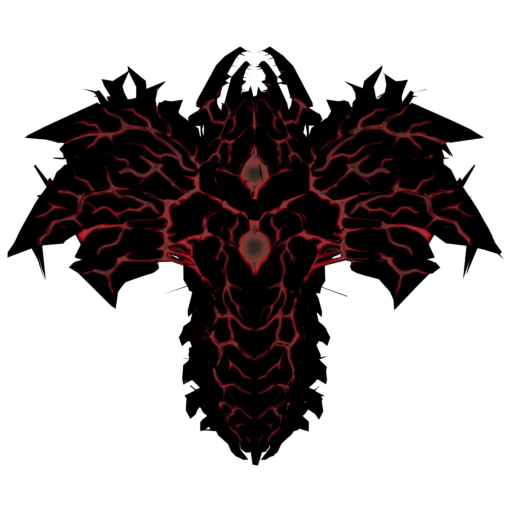
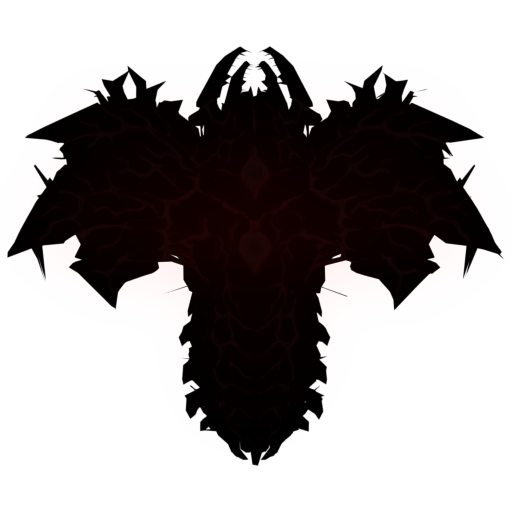
El horneado lleva el halo de alta, para que media sea la misma imagen
En calidad alta el brillo del rojo lo hace el Environment del SubViewport con
glow: lo que pasa de 1 se DERRAMA a los pixeles vecinos. En media no hay entorno,
hay un PNG. Sin halo horneado el resultado no era mas oscuro, era de otro
CARACTER: mismo brillo medio, pero media con manchones planos reventados y alta
con el rojo vivo y halo. Se homologa el acabado, que era lo que quedaba distinto.

Medido, rojo medio del pixel y % por encima de 0,8, recortando a 1 en los dos
lados porque es lo que la pantalla da:

  media antes            0.370   19,1%
  media con halo         0.373   10,1%
  alta con glow (ref.)   0.377    8,7%

El 1,4% que queda es diferencia de ENCUADRE entre las dos imagenes —98 687 px de
silueta contra 79 200— y no de acabado. Afinar mas seria perseguir el ruido de la
propia medicion.

Se hace con numpy sobre el PNG ya rendido, no con el compositor. En Blender 5 el
compositor es un grupo de nodos colgado de la escena y los ajustes del Glare son
entradas, no propiedades; se perdio un buen rato ahi y ademas no se podia razonar
sobre el resultado. Tres cajas seguidas por sumas acumuladas dan la gaussiana en
O(n) y sin scipy.

Tres cosas que costaron una pasada cada una:

  · El halo sale de la emision ORIGINAL y el nucleo se atenua DESPUES. Al reves,
    bajar el nucleo dejaba la imagen por debajo del umbral y el halo desaparecia
    —medido: 12,9% de reventon y cero halo fuera de la silueta.
[…]

Changed region(s): [[0.0625, 0.1875, 0.9375, 0.8438], [0.5, 0.8438, 0.5312, 0.875]]

diff --git a/tools/hornear-sprite.py b/tools/hornear-sprite.py
@@ -41,6 +41,13 @@ argv = sys.argv[sys.argv.index("--") + 1:]
 entrada, salida_dir, nombre = argv[0], argv[1], argv[2]
 LADO = int(argv[3]) if len(argv) > 3 else 512
 
+# ABSOLUTA, siempre. Blender resuelve un `render.filepath` RELATIVO contra su
+# propia idea de la ruta base, no contra el directorio desde el que se lanza: con
+# `exports/horno` como salida el render se fue a un sitio fantasma, el script
+# dijo que habia horneado y los PNG del repo se quedaron como estaban. No dio
+# ningun error; solo no hizo nada.
+salida_dir = os.path.abspath(salida_dir)
+
 sys.path.insert(0, os.path.dirname(os.path.abspath(__file__)))
 from salvaguarda import comprobar_salida    # noqa: E402
 comprobar_salida(entrada, os.path.join(salida_dir, nombre + "-base.png"))
@@ -128,7 +135,88 @@ previos = emisiones(0.0)
 print("BASE (emision apagada para que no vaya dos veces)")
 render(os.path.join(salida_dir, nombre + "-base.png"))
 
-# ---- 2. EMISIVA: solo lo que brilla ----
+# ---- glow para el pase emisivo ----
+# Homologa media con alta. En ALTA el brillo lo hace el `Environment` del
+# SubViewport con `glow_enabled`, que DERRAMA lo que pasa de 1 a los pixeles
+# vecinos. En MEDIA no hay entorno: hay un PNG. Si el halo no se hornea, media se
+# queda con el nucleo recortado —manchones planos reventados— y alta con el rojo
+# vivo y halo. Misma luminosidad media, distinto acabado; esto iguala el acabado.
+#
+# Los tres diales espejan los del cliente (entity_node._construir_malla_3d):
+#   umbral 0.9  <- glow_hdr_threshold      fuerza 1.0 <- glow_intensity
+#   tamanio     <- no tiene equivalente exacto; se calibro midiendo (ver README)
+GLOW_UMBRAL = float(os.environ.get("GLOW_UMBRAL", 0.25))
+GLOW_RADIO = float(os.environ.get("GLOW_RADIO", 0.06))   # fraccion del lado
+GLOW_FUERZA = float(os.environ.get("GLOW_FUERZA", 1.8))
+# El nucleo del horneado sale mas caliente que la emision de ALTA en Godot: al
+# mismo pulso, media reventaba el 19,1% de sus pixeles y alta el 8,3%. Homologar
+# el acabado es bajar el nucleo A LO QUE DA ALTA y devolver esa energia como halo,
+# que es justo lo que hace un bloom: no quema mas, reparte.
+GLOW_NUCLEO = float(os.environ.get("GLOW_NUCLEO", 0.09))
+
+
+def _desenfoque(a, radio):
+    """Gauss aproximado por tres cajas seguidas, con sumas acumuladas.
+
+    Tres pasadas de caja convergen a una gaussiana y cuestan O(n) en vez de
+    O(n*radio); con 512 px y numpy es instantaneo y no hace falta scipy.
+    """
+    r = max(1, int(radio))
+    for _ in range(3):
+        for eje in (0, 1):
+            a = np.swapaxes(a, 0, eje)
+            pad = np.concatenate([
+                np.repeat(a[:1], r + 1, axis=0), a, np.repeat(a[-1:], r, axis=0)], axis=0)
+            ac = np.cumsum(pad, axis=0)
+            a = (ac[2 * r + 1:] - ac[:-(2 * r + 1)]) / float(2 * r + 1)
+            a = np.swapaxes(a, 0, eje)
+    return a
+
+
+def hornear_halo(ruta):
+    """Anade a la capa emisiva el halo que en ALTA pone el glow del Environment.
+
+    Homologa el ACABADO, que es lo que quedaba distinto. Con la misma luminosidad
+    media, media tenia manchones planos reventados (19,1% de pixeles a tope) y
+    alta el rojo vivo con halo (8,7%). El brillo ya casaba; el caracter no.
+
+    Se trabaja sobre el color PREMULTIPLICADO porque es lo que se ve: el cliente
+    monta esta capa en blend ADITIVO, donde la aportacion es rgb*a. Sumar el halo
+    ahi y recomponer el alfa despues es lo unico que lo deja bien; hacerlo sobre
+    el rgb suelto pinta halo donde el alfa lo iba a borrar.
+    """
+    img = bpy.data.images.load(ruta)
+    w, h = img.size
+    px = np.array(img.pixels[:], dtype=np.float32).reshape(h, w, 4)
+    rgb, alfa = px[:, :, :3], px[:, :, 3:4]
+
+    visible = rgb * alfa
+    # El halo sale de la emision ORIGINAL y el nucleo se atenua DESPUES. Al reves
+    # —que fue el primer intento— bajar el nucleo dejaba la imagen por debajo del
+    # umbral y el halo desaparecia: se medio 12,9% de reventon y ni un pixel de
+    # halo fuera de la silueta. Ademas es lo fisico: en ALTA el bloom lee la
+    # emision entera, y bajar el nucleo es repartir esa energia, no quitarla.
+    altas = np.maximum(visible - GLOW_UMBRAL, 0.0)
+    halo = _desenfoque(altas, GLOW_RADIO * min(w, h)) * GLOW_FUERZA
+    nueva = visible * GLOW_NUCLEO + halo
+
+    # El alfa tiene que crecer con el halo: cae FUERA de la silueta, donde el
+    # render trae alfa 0, y el blend aditivo multiplica por alfa. Sin esto el halo
+    # se multiplicaria por cero y no existiria.
+    luz = nueva.max(axis=2, keepdims=True)
+    na = np.clip(np.maximum(alfa, luz), 0.0, 1.0)
+    px[:, :, :3] = np.where(na > 1e-4, nueva / np.maximum(na, 1e-4), 0.0)
+    px[:, :, 3:4] = na
+
+    img.pixels = np.clip(px, 0.0, 1.0).ravel().tolist()
+    img.filepath_raw = ruta
+    img.file_format = "PNG"
+    img.save()
+    print("  halo: nucleo %.2f umbral %.2f radio %.3f fuerza %.2f -> alfa %.1f%%"
+          % (GLOW_NUCLEO, GLOW_UMBRAL, GLOW_RADIO, GLOW_FUERZA, 100.0 * (na > 0.02).mean()))
+
+
+# ---- 2. EMISIVA: solo lo que brilla, CON el halo de alta ----
 for m in bpy.data.materials:
     if m.use_nodes:
         b = next((n for n in m.node_tree.nodes if n.type == "BSDF_PRINCIPLED"), None)
@@ -137,7 +225,11 @@ for m in bpy.data.materials:
 sol_d.energy = 0.0
 fondo.inputs[1].default_value = 0.0
 print("EMISIVA (sin luces, mundo negro)")
-render(os.path.join(salida_dir, nombre + "-emissive.png"))
+_emi = os.path.join(salida_dir, nombre + "-emissive.png")
+render(_emi)
+# El halo va SOLO aqui. En el pase de normales seria corrupcion, no brillo, y en
+# el base iria dos veces: el cliente ya suma esta capa encima.
+hornear_halo(_emi)
 
 # ---- 3. NORMAL en espacio de pantalla ----
 # Se sustituye el material por una emision que pinta la normal como color, en vez

diff --git a/README.md b/README.md
@@ -469,3 +469,48 @@ construcción.
 ## Estado
 
 Repo recién creado.
+
+
+### El halo horneado: por qué media lleva glow dentro del PNG
+
+En calidad **alta** el brillo del rojo lo hace el `Environment` del `SubViewport`
+con `glow_enabled`: lo que pasa de 1 se **derrama** a los píxeles vecinos. En
+**media** no hay entorno, hay un PNG — y sin halo horneado el resultado no era
+más oscuro, era **de otro carácter**: mismo brillo medio, pero media con
+manchones planos reventados y alta con el rojo vivo y halo.
+
+Medido sobre el mismo bicho (rojo medio del píxel y % de píxeles por encima de
+0,8, recortando a 1 en los dos lados porque es lo que la pantalla da):
+
+| | rojo medio | reventados |
+|---|---|---|
+| media, antes | 0,370 | 19,1 % |
+| **media, con halo horneado** | **0,373** | **10,1 %** |
+| alta con glow (la referencia) | 0,377 | 8,7 % |
+
+El 1,4 % que queda es diferencia de **encuadre** entre las dos imágenes, no de
+acabado: la silueta de media ocupa 98 687 px y la de alta 79 200. Afinar más sería
+perseguir ruido de la propia medición.
+
+**Los cuatro diales** (`GLOW_*` en `hornear-sprite.py`, todos con variable de
+entorno del mismo nombre para poder barrerlos sin editar):
+
+| dial | valor | qué hace |
+|---|---|---|
+| `GLOW_NUCLEO` | 0,09 | atenúa el núcleo. El horneado sale **más caliente** que la emisión de Godot al mismo pulso; sin bajarlo, media revienta el doble |
+| `GLOW_UMBRAL` | 0,25 | desde dónde brilla, sobre el color **premultiplicado** |
+| `GLOW_RADIO` | 0,06 | cuánto se extiende, en fracción del lado |
+| `GLOW_FUERZA` | 1,8 | cuánto se devuelve como halo |
+
+Tres cosas que costaron una pasada cada una y no son obvias:
+
+- **El halo sale de la emisión original y el núcleo se atenúa después.** Al revés,
+  bajar el núcleo dejaba la imagen por debajo del umbral y el halo desaparecía.
+  Es además lo físico: un bloom reparte energía, no la quita.
+- **El alfa tiene que crecer con el halo.** Cae fuera de la silueta, donde el
+  render trae alfa 0, y el cliente monta esta capa en blend **aditivo**, que
+  multiplica por alfa. Sin devolvérselo, el halo se multiplica por cero.
+- **La ruta de salida se pasa a absoluta.** Blender resuelve un `render.filepath`
+  relativo contra su propia ruta base, no contra el directorio de lanzamiento: con
+  `exports/horno` el render se fue a un sitio fantasma, el script dijo que había
+  horneado y los PNG se quedaron igual. Sin error ninguno.
